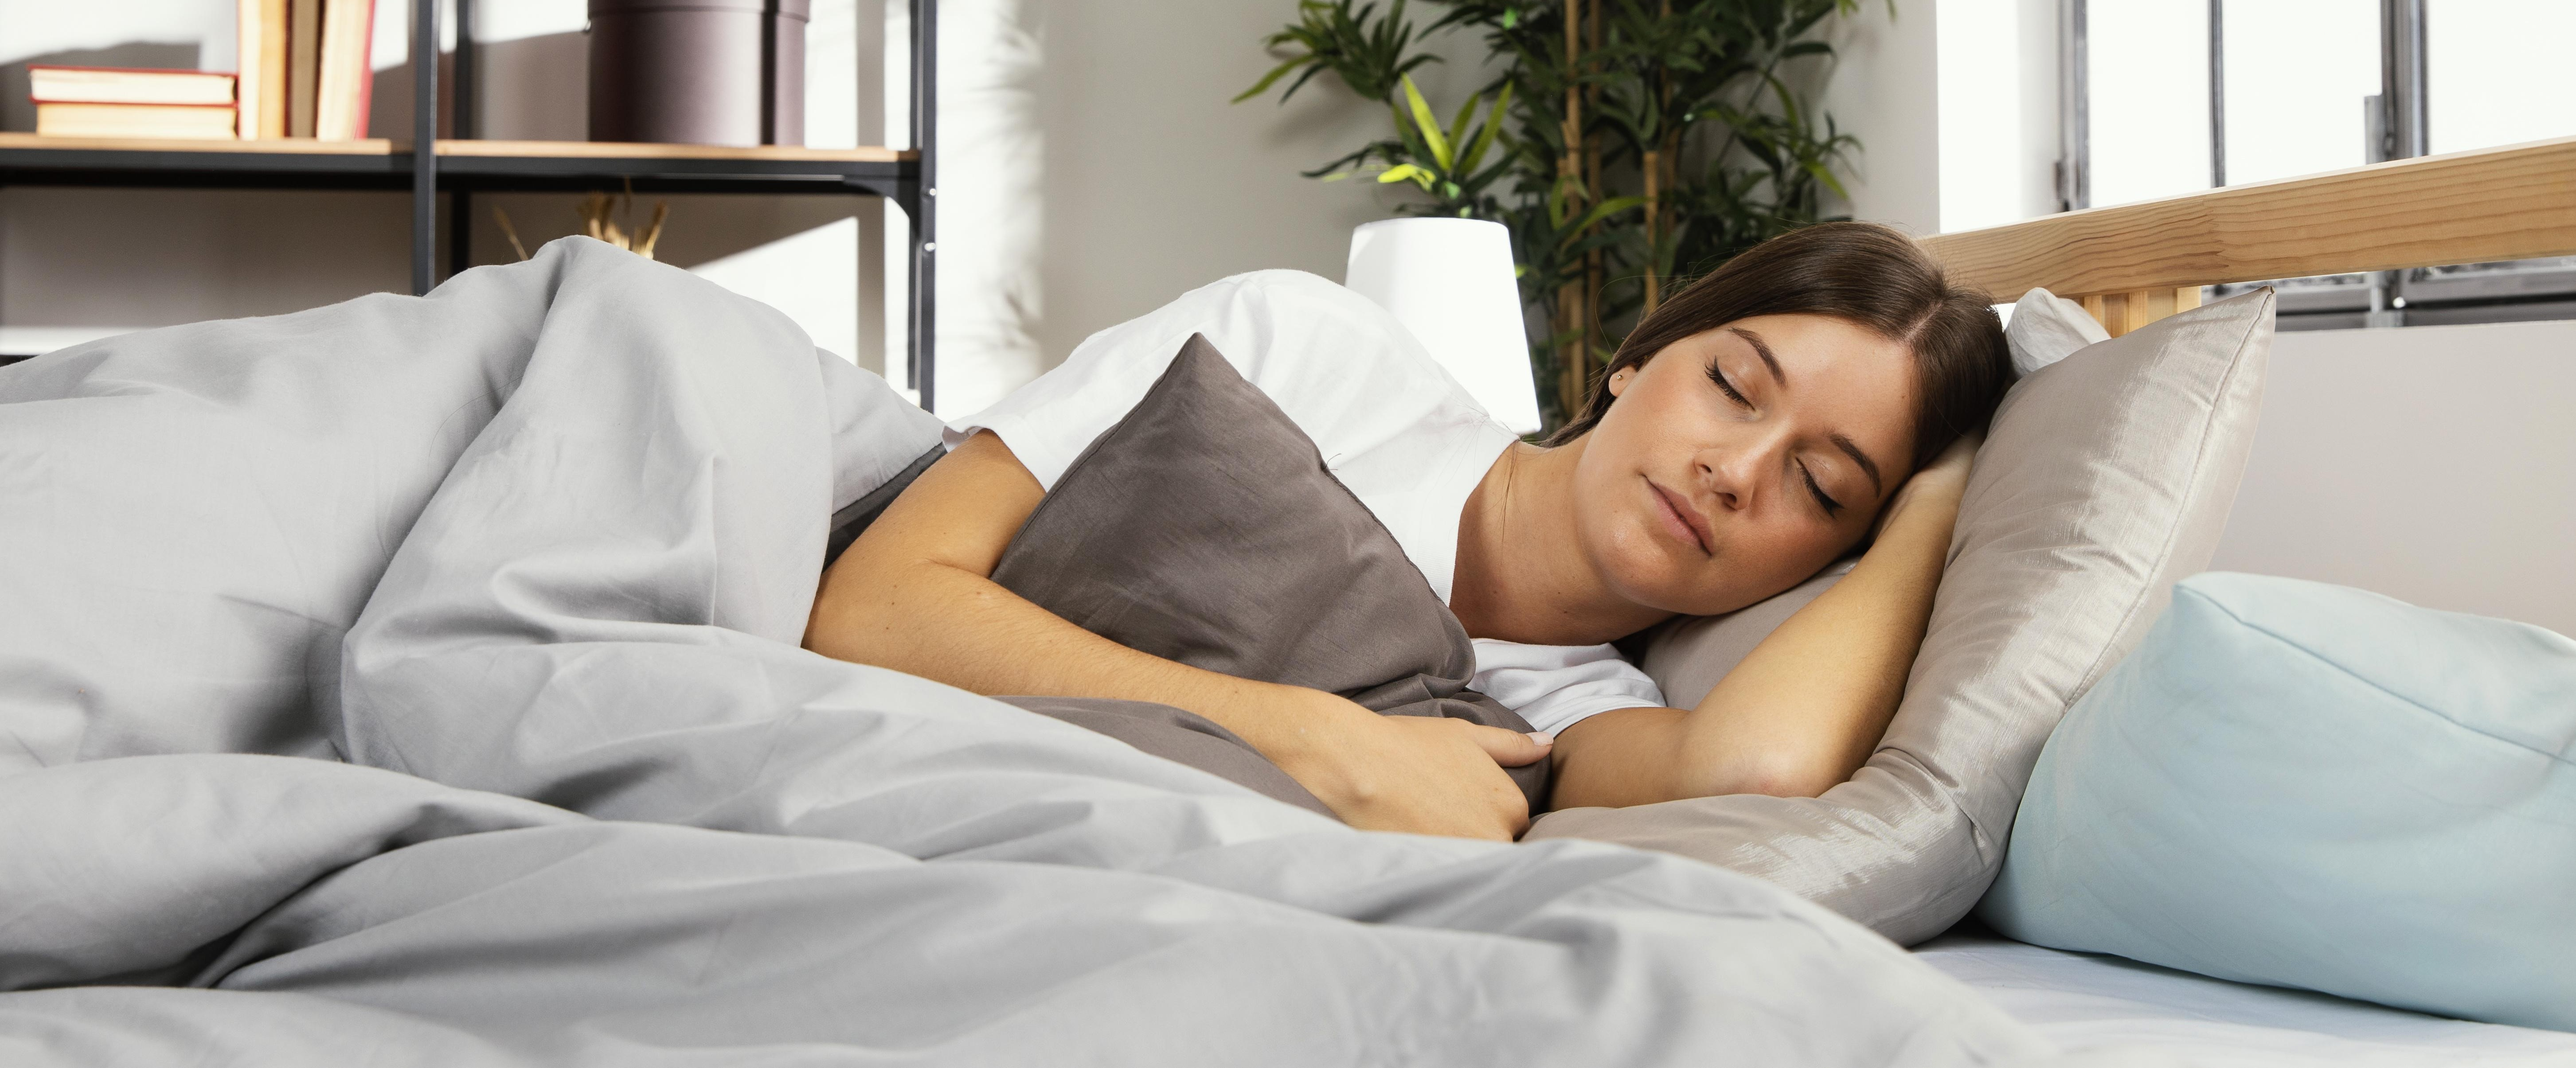
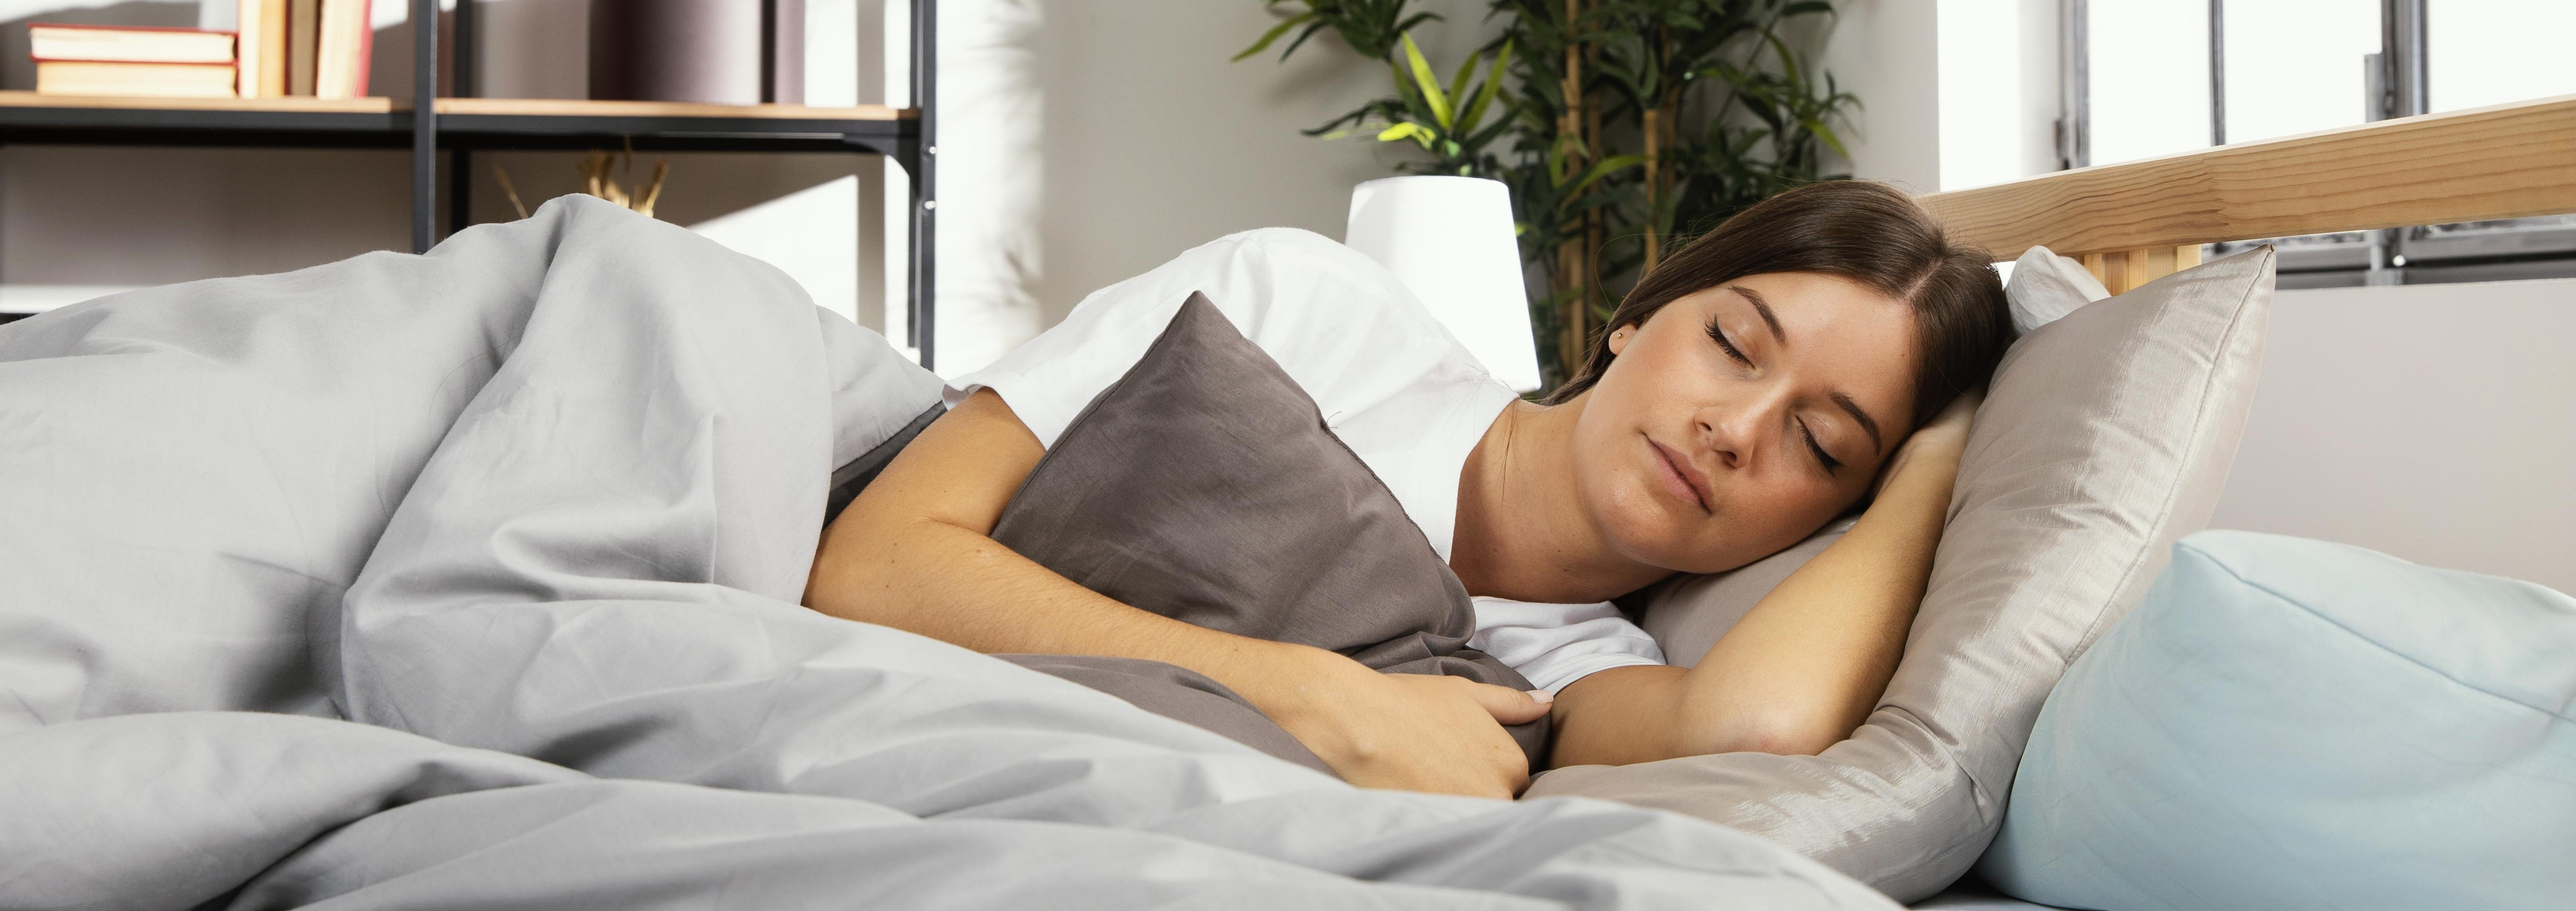
Add new images and update Services page layout
- Added new images: question.svg, sleeping.jpg, and whyUs.jpg.
- Updated Services page layout with improved styling and structure.
- Enhanced background image and overlay for better visual appeal.
- Adjusted text content and formatting for clarity and emphasis.
- Introduced new sections highlighting expertise, quality products, and personalized support.

diff --git a/src/app/Services/page.jsx b/src/app/Services/page.jsx
@@ -7,17 +7,23 @@ import Image from "next/image";
 export default function Services() {
   return (
     <div className="flex flex-col items-center justify-centerspace-y-16">
-      <section className="border-1 relative flex justify-between items-center h-[400px] w-[80%]">
+      <section className="relative flex justify-between items-center h-[390px] w-[90%] rounded-l-2xl ">
+        {/* Background Image */}
         <Image
           src="/sleeping.jpg"
           alt="sleeping"
-          width={950}
-          height={900}
-          className="object-cover"
-        ></Image>
-        <div className="absolute z-20">
+          width={1100}
+          height={1000}
+          className="object-cover w-full h-full rounded-l-2xl"
+        />
+
+        {/* Black Transparent Overlay */}
+        <div className="absolute inset-0 bg-gradient-to-r from-[#0077b6]/40 to-transparent z-10 rounded-l-2xl"></div>
+
+        {/* Text Content */}
+        <div className="absolute z-20 px-8">
           <div className="flex flex-col gap-4 text-white">
-            <h2 className="text-4xl font-medium">Our Services</h2>
+            <h2 className="text-6xl font-semibold">Our Services</h2>
             <p className="text-base font-medium max-w-3/5">
               At our organisation, we are committed to delivering high-quality
               respiratory care solutions that support better breathing, improved
@@ -25,7 +31,6 @@ export default function Services() {
             </p>
           </div>
         </div>
-        
       </section>
 
       <section className="flex flex-col h-auto items-center text-center gap-4 px-5">
@@ -34,33 +39,36 @@ export default function Services() {
             initial={{ y: 100, opacity: 0 }}
             animate={{ y: 0, opacity: 1 }}
             transition={{ duration: 0.5 }}
-            className=" p-4 m-4 text-left"
+            className="bg-[#0077b6]/40 p-4 m-4 text-left rounded-xl w-1/3"
           >
             <div className="rounded-full w-13 h-13 flex-shrink-0 flex items-center justify-center bg-[#F5F5F5] m-4">
-              <Image 
-                src="https://www.reshot.com/preview-assets/icons/7SJT2D5QLV/oxygen-mask-7SJT2D5QLV.svg" 
-                alt="icon" 
-                width={30} 
+              <Image
+                src="https://www.reshot.com/preview-assets/icons/7SJT2D5QLV/oxygen-mask-7SJT2D5QLV.svg"
+                alt="icon"
+                width={30}
                 height={30}
               />
             </div>
             <h2 className="mb-2 text-2xl font-medium px-5 py-2">
               Medical Device Sales
             </h2>
-            <p className="text-base font-light px-5 py-2 ">Choose high-quality Oxygen Concentrators andCPAP/BiPAP range sourced from trusted manufacturers.</p>
+            <p className="text-base font-light px-5 py-2 ">
+              Choose high-quality Oxygen Concentrators andCPAP/BiPAP range
+              sourced from trusted manufacturers.
+            </p>
           </motion.div>
 
           <motion.div
             initial={{ y: 100, opacity: 0 }}
             animate={{ y: 0, opacity: 1 }}
             transition={{ duration: 0.5, delay: 0.5 }}
-            className=" p-4 m-4 text-left"
+            className="bg-[#0077b6]/40 p-4 m-4 text-left rounded-xl w-1/3"
           >
             <div className="rounded-full w-13 h-13 flex-shrink-0 flex items-center justify-center bg-[#F5F5F5] m-4">
-              <Image 
-                src="https://www.reshot.com/preview-assets/icons/X5YAMKP9BE/rental-X5YAMKP9BE.svg" 
-                alt="icon" 
-                width={30} 
+              <Image
+                src="https://www.reshot.com/preview-assets/icons/X5YAMKP9BE/rental-X5YAMKP9BE.svg"
+                alt="icon"
+                width={30}
                 height={30}
               />
             </div>
@@ -68,7 +76,8 @@ export default function Services() {
               Equipment Rental
             </h2>
             <p className="text-base font-light px-5 py-2">
-              Get access to the medical equipment you need—without long-term commitments.
+              Get access to the medical equipment you need—without long-term
+              commitments.
             </p>
           </motion.div>
 
@@ -76,13 +85,13 @@ export default function Services() {
             initial={{ y: 100, opacity: 0 }}
             animate={{ y: 0, opacity: 1 }}
             transition={{ duration: 0.5, delay: 1 }}
-            className=" p-4 m-4 text-left"
+            className="bg-[#0077b6]/40 p-4 m-4 text-left rounded-xl w-1/3"
           >
             <div className="rounded-full w-13 h-13 flex-shrink-0 flex items-center justify-center bg-[#F5F5F5] m-4">
-              <Image 
-                src="https://www.reshot.com/preview-assets/icons/7SLFANCXGJ/sleep-7SLFANCXGJ.svg" 
-                alt="icon" 
-                width={30} 
+              <Image
+                src="https://www.reshot.com/preview-assets/icons/7SLFANCXGJ/sleep-7SLFANCXGJ.svg"
+                alt="icon"
+                width={30}
                 height={30}
               />
             </div>
@@ -90,85 +99,44 @@ export default function Services() {
               Sleep Diagnostics
             </h2>
             <p className="text-base font-light px-5 py-2">
-              Our experts conducts comprehensive sleep studies for better sleep health.
+              Our experts conducts comprehensive sleep studies for better sleep
+              health.
             </p>
           </motion.div>
         </div>
       </section>
 
-      <div className="bg-[#0077b6] text-white flex flex-col h-[500px] items-center text-center gap-6">
-        <div className="flex flex-col gap-6 mt-6">
-          <h2 className="text-4xl font-medium">Types of Sleep Studies</h2>
-          <p className="text-lg font-medium text-gray-100">
-            We bridge the gap between learning and employability by helping
-            students build portfolio-worthy projects that recruiters love.
-          </p>
+      <div id='WhyUs' className=' md:mt-15 lg:mt-6'>
+
+      <h4 className='text-xl lg:text-4xl font-medium max-w-full md:text-2xl text-center'>Why Choose SNK Global Consultancy Services? </h4>
+      
+      <div className='lg:grid md:grid lg:grid-cols-2 md:grid-cols-2 lg:h-4/5 py-15 px-10'> 
+        <div className='w-full h-full flex justify-center items-center'>
+          <Image src="/whyUs.jpg" alt="question-mark" height={500} width={500}></Image>
         </div>
 
-        <div className="flex flex-col lg:flex-row gap-4 p-4 lg:mt-5">
-          <motion.div
-            initial={{ y: 100, opacity: 0 }}
-            animate={{ y: 0, opacity: 1 }}
-            transition={{ duration: 0.5 }}
-            className=" p-4 m-4 text-left"
-          >
-            <h2 className="mb-2 text-2xl font-medium px-5 py-2">
-              Polysomnography or Diagnostic Tests
-            </h2>
-            <p className="text-base font-light px-5 py-2 ">
-              Once diagnosed with a breathing disorder, CPAP or BiPAP titration
-              tests are done to determine which mode and what pressure settings
-              to set for your therapy.
-            </p>
-          </motion.div>
+        <div className='flex flex-col gap-3 lg:gap-12 justify-center px-4 md:gap-4' >
 
-          <motion.div
-            initial={{ y: 100, opacity: 0 }}
-            animate={{ y: 0, opacity: 1 }}
-            transition={{ duration: 0.5, delay: 0.5 }}
-            className=" p-4 m-4 text-left"
-          >
-            <h2 className="mb-2 text-2xl font-medium px-5 py-2">
-              PAP Titration Tests
-            </h2>
-            <p className="text-base font-light px-5 py-2">
-              Each project is scoped to demonstrate technical depth while
-              staying short enough to complete and deploy quickly.
-            </p>
-          </motion.div>
+          <div className=' bg-black text-white h-auto p-4 shadow-gray-600 shadow-lg'>
+            <h3 className='text-sm lg:text-xl font-extrabold px-2 md:text-sm'>Expertise</h3>
+            <p className='text-xs lg:text-base font-extralight px-5 py-2 md:text-xs'> Our team has extensive experience in the respiratory care industry, ensuring that our clients receive the best possible service.</p>
+          </div >
 
-          <motion.div
-            initial={{ y: 100, opacity: 0 }}
-            animate={{ y: 0, opacity: 1 }}
-            transition={{ duration: 0.5, delay: 1 }}
-            className=" p-4 m-4 text-left"
-          >
-            <h2 className="mb-2 text-2xl font-medium px-5 py-2">
-              Split Night Tests
-            </h2>
-            <p className="text-base font-light px-5 py-2">
-              A mix of diagnostic and PAP titration test. Saves cost by
-              combining both in a single night.
-            </p>
-          </motion.div>
+          <div className=' bg-black text-white h-auto p-4 ml-10 shadow-gray-600 shadow-md'>
+            <h3 className='text-sm lg:text-xl font-extrabold px-2 md:text-sm'>Quality Products</h3>
+            <p className='text-xs lg:text-base font-extralight px-5 py-2 md:text-xs'> We offer high-quality products from leading manufacturers, ensuring that our clients receive the best possible outcomes.</p>
+          </div>
+
+          <div className=' bg-black text-white h-auto p-4 shadow-gray-600 shadow-md'>
+            <h3 className='text-sm lg:text-xl font-extrabold px-2 md:text-sm'>Personalized Support</h3>
+            <p className='text-xs lg:text-base font-extralight px-5 py-2 md:text-xs'> We prioritize building strong relationships with our clients, providing personalized support and service to meet their unique needs.</p>
+          </div>
+
         </div>
+
       </div>
 
-      {/* Diagnostic Equipment / Partners */}
-      <section className="max-w-4xl mx-auto space-y-4">
-        <h2 className="text-2xl font-medium">Diagnostic Equipment Partners</h2>
-        <p className="text-gray-700">
-          We use advanced testing equipment from world-class medical technology
-          partners.
-        </p>
-      </section>
-
-      {/* Call to Action */}
-      <div className="max-w-3xl mx-auto text-center pt-12">
-        <button className="bg-[#0077b6] text-white px-6 py-3 rounded-lg hover:bg-[#005f87] transition">
-          Book Your Sleep Study
-        </button>
-      </div>
+    </div>
     </div>
   );
 }
